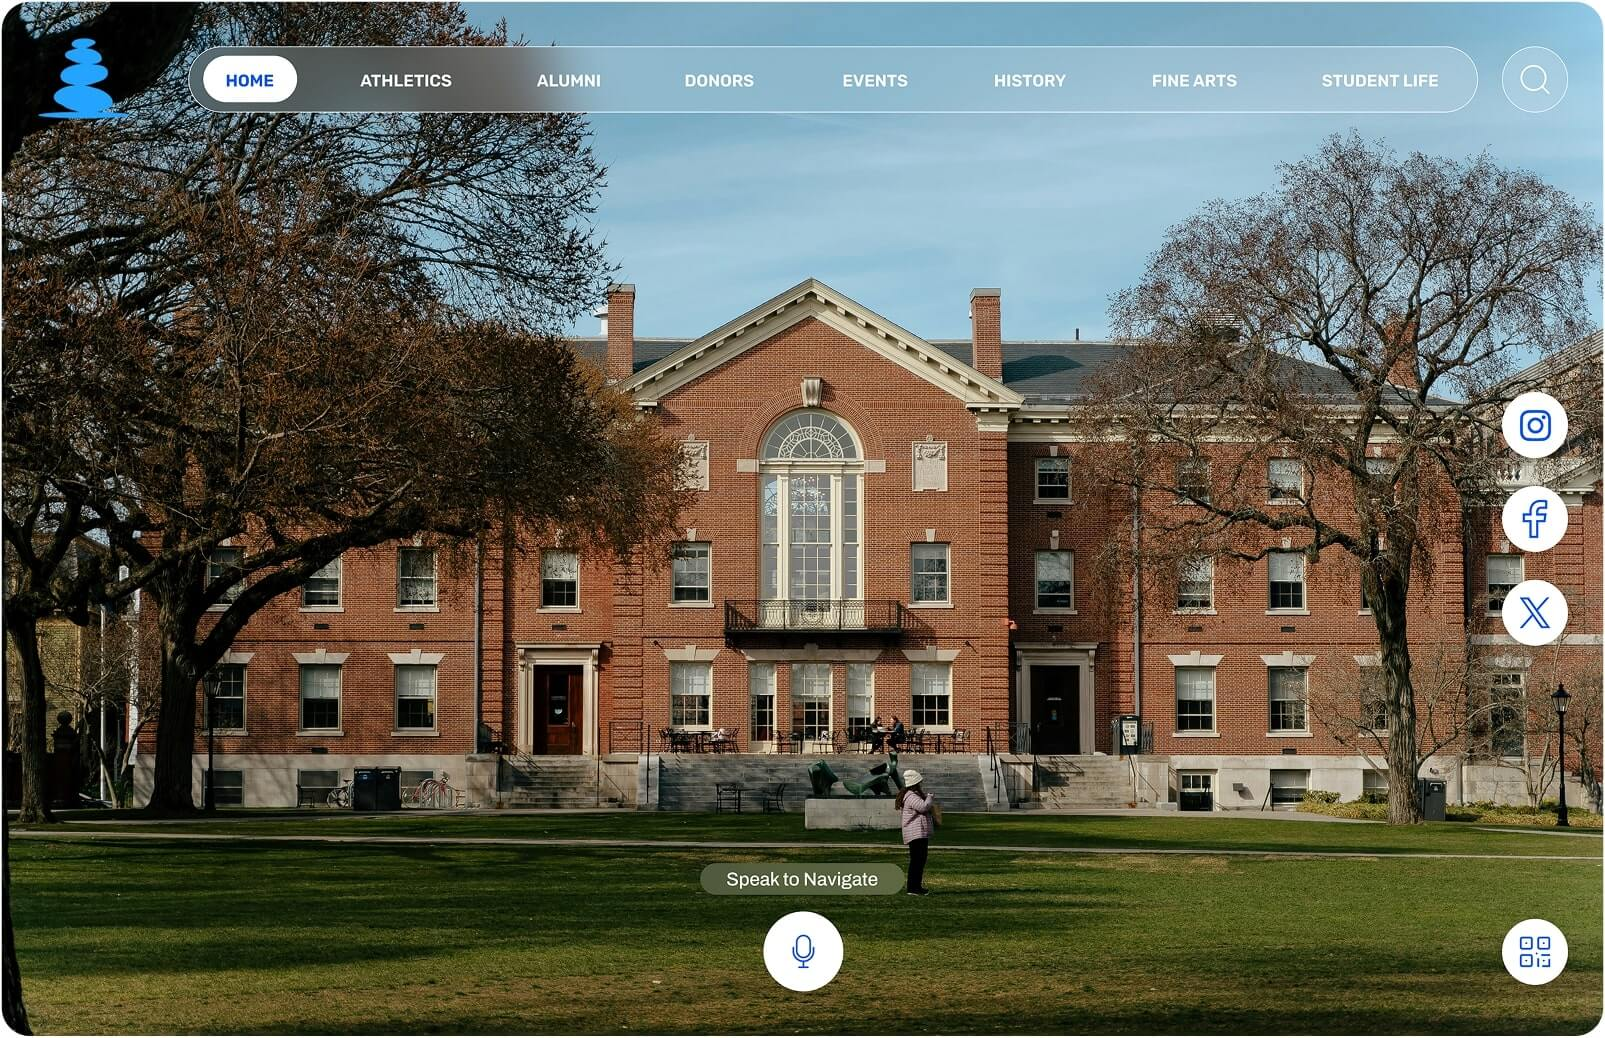
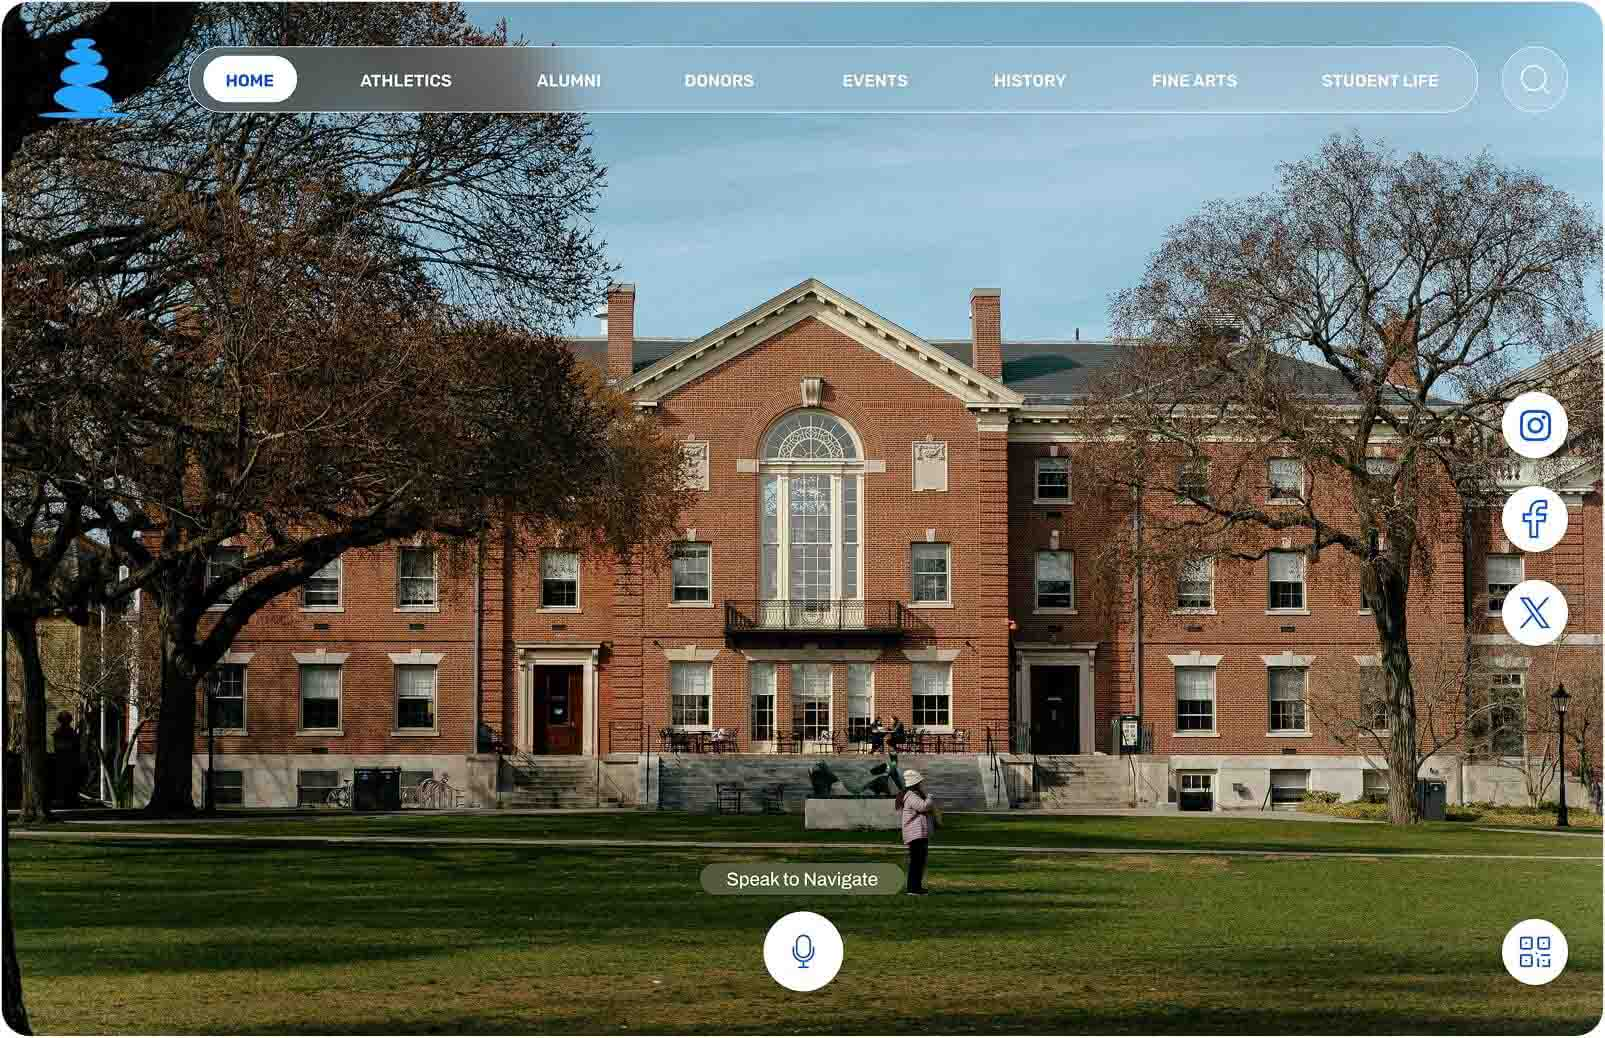
image changes

diff --git a/src/components/HeroSection.tsx b/src/components/HeroSection.tsx
@@ -27,15 +27,15 @@ const HeroSection: React.FC = () => {
   }, []);
 
   return (
-    <section className="relative min-h-[80svh] w-full flex flex-col items-center justify-center overflow-hidden pt-16 sm:pt-20 md:pt-32">
-      {/* Background elements */}
-      <div className="absolute inset-0 bg-grid opacity-30 -z-10"></div>
-      <div
-        className={`absolute top-1/2 left-1/2 -translate-x-1/2 -translate-y-1/2 w-[90vmin] h-[90vmin] max-w-[900px] max-h-[900px] bg-gradient-spotlight -z-10 transition-all duration-700 ${
-          isVisible ? "opacity-100 scale-100" : "opacity-0 scale-90"
-        }`}
-      ></div>
-
+    <section 
+      className="relative min-h-[80svh] w-full flex flex-col items-center justify-center overflow-hidden pt-16 sm:pt-20 md:pt-32"
+      style={{
+        backgroundImage: "url('/hero-bg-1.png')",
+        backgroundSize: "cover",
+        backgroundPosition: "center",
+        backgroundRepeat: "no-repeat"
+      }}
+    >
       {/* Border lines - only in upper portion */}
       <div className="absolute top-16 left-8 sm:left-12 w-[1px] h-32 sm:h-48 bg-gradient-to-b from-transparent via-foreground/40 to-transparent"></div>
       <div className="absolute top-24 sm:top-28 left-0 h-[1px] w-32 sm:w-48 bg-gradient-to-r from-transparent via-foreground/40 to-transparent"></div>

diff --git a/src/components/Navbar.tsx b/src/components/Navbar.tsx
@@ -22,8 +22,8 @@ const Navbar: React.FC = () => {
       className={cn(
         "fixed top-0 left-0 right-0 z-50 transition-all duration-300",
         isScrolled
-          ? `py-3 bg-glass border-b border-white/10 shadow-sm`
-          : "py-5 bg-transparent"
+          ? `py-3 bg-white border-b border-gray-200 shadow-sm`
+          : "py-5 bg-white/80 backdrop-blur-sm"
       )}
     >
       <div className="container px-4 md:px-6 mx-auto flex items-center justify-between">
@@ -78,7 +78,7 @@ const Navbar: React.FC = () => {
         {/* Mobile menu overlay */}
         <div
           className={cn(
-            `fixed inset-0 bg-background/95 z-50 md:hidden transition-transform duration-300`, 
+            `fixed inset-0 bg-white z-50 md:hidden transition-transform duration-300`, 
             isMobileMenuOpen ? "translate-x-0" : "translate-x-full"
           )}
         >
